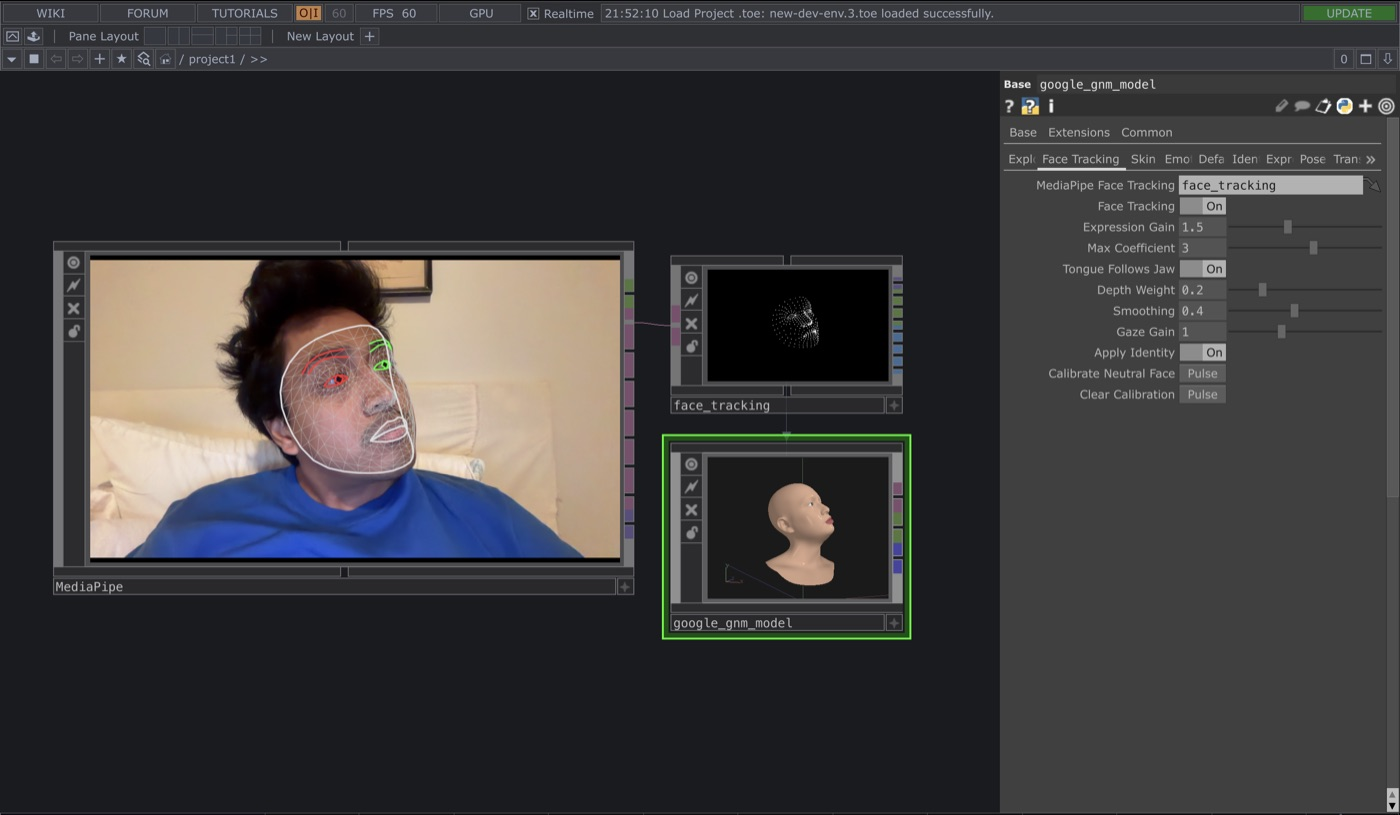
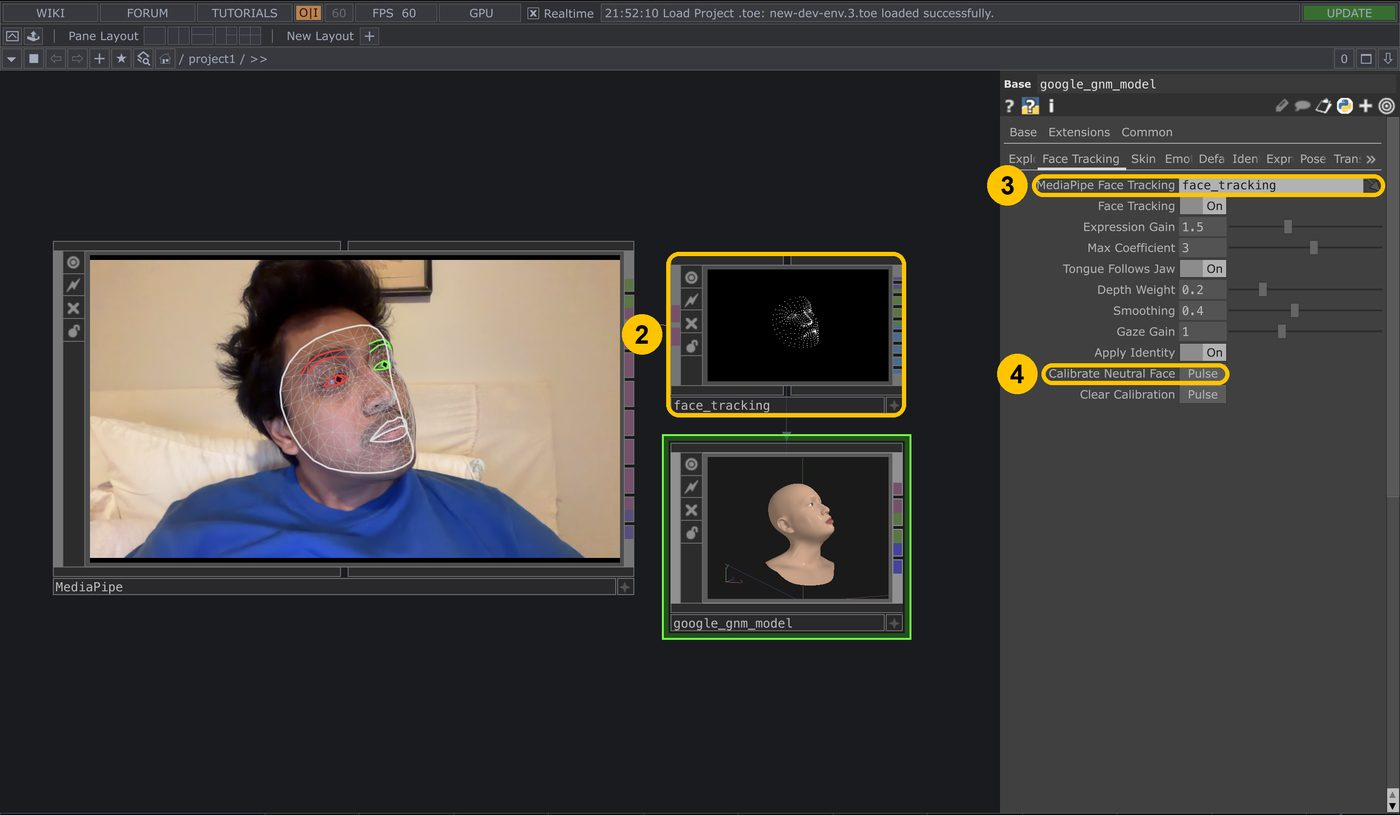
README: face tracking steps match numbered screenshots
Step 2 now says to press Generate GUI next to Detect facial landmarks,
which creates the face_tracking component. Both screenshots carry
numbered boxes matching the steps.

diff --git a/README.md b/README.md
@@ -26,19 +26,21 @@ Requires TouchDesigner 2025 or newer.
 
 ## Face tracking
 
-1. Install [Torin Blankensmith's MediaPipe plugin](https://github.com/torinmb/mediapipe-touchdesigner)
-   and set up its `face_tracking` component as in his examples. On `MediaPipe`,
-   pick your webcam and turn on **Detect facial landmarks**; the other
-   detectors can stay off.
-2. On **Face Tracking**, point **MediaPipe Face Tracking** at it.
-3. Relax your face and press **Calibrate Neutral Face**.
+Uses [Torin Blankensmith's MediaPipe plugin](https://github.com/torinmb/mediapipe-touchdesigner).
+Drag its `MediaPipe.tox` into your project, then:
 
-![MediaPipe driving the head](images/face-tracking.jpg)
+1. On `MediaPipe`, pick your **Webcam**.
+2. Turn on **Detect facial landmarks** and press the **Generate GUI** above it.
+   This creates the `face_tracking` component, already wired to MediaPipe.
+   The other detectors can stay off.
 
-<details><summary>MediaPipe settings used</summary>
+<img src="images/mediapipe-settings.png" width="420" alt="MediaPipe settings: 1 Webcam, 2 Generate GUI and Detect facial landmarks">
 
-<img src="images/mediapipe-settings.png" width="420" alt="MediaPipe component settings">
-</details>
+3. On the head's **Face Tracking** page, set **MediaPipe Face Tracking** to
+   that `face_tracking` component.
+4. Relax your face and press **Calibrate Neutral Face**.
+
+![Face tracking: 2 the face_tracking component, 3 MediaPipe Face Tracking, 4 Calibrate Neutral Face](images/face-tracking.jpg)
 
 ## Outputs
 
